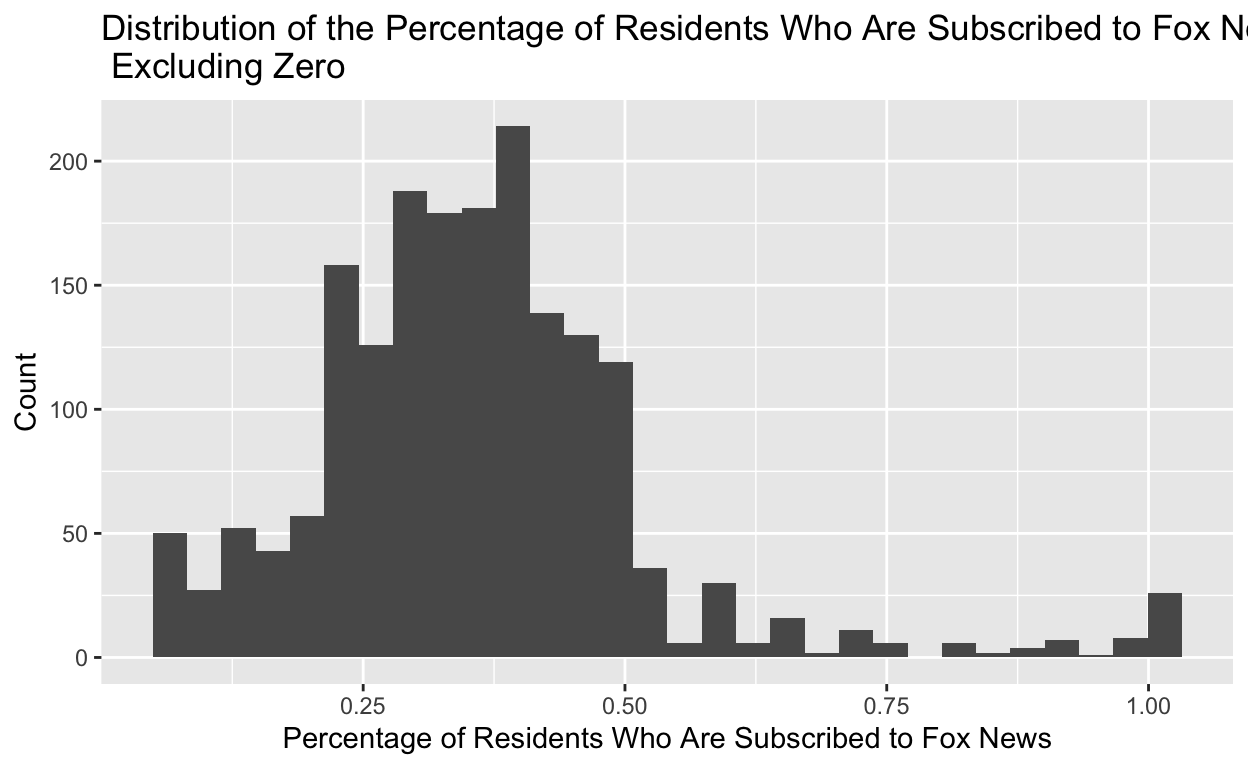
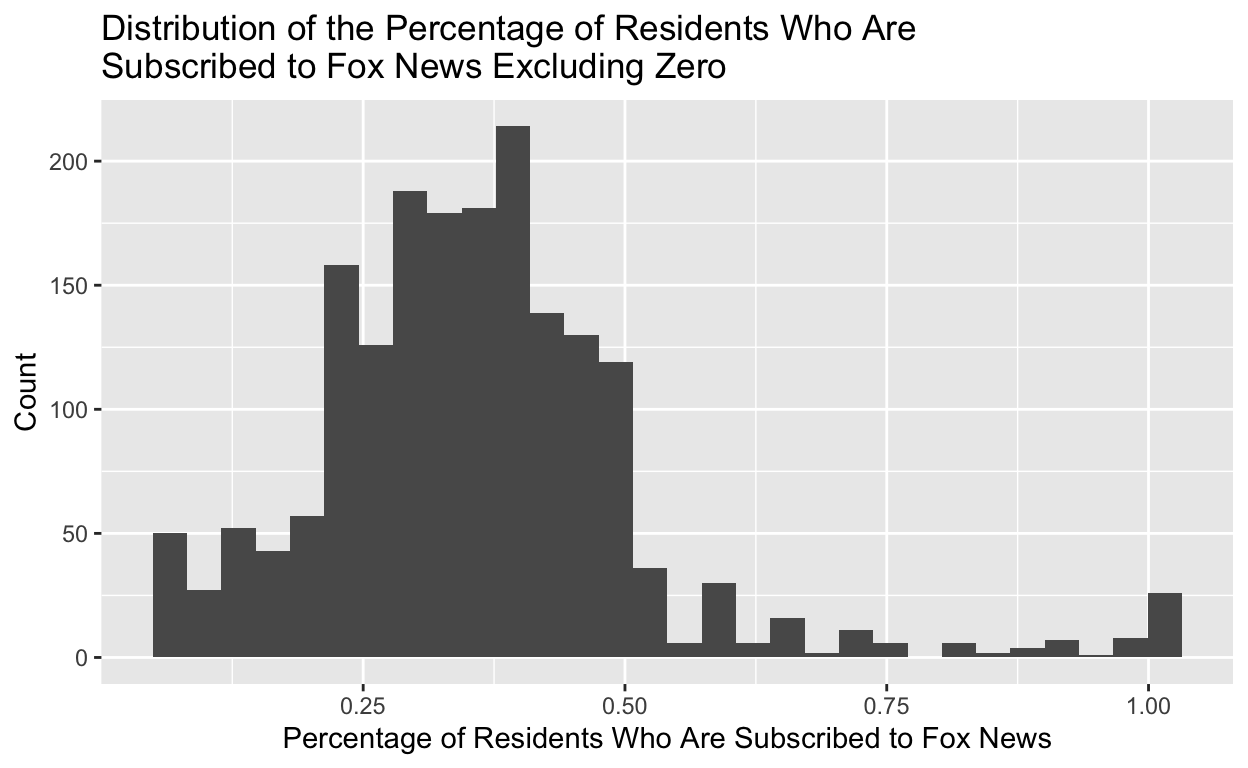
Edited graphs!

Changed region(s): [[0.0625, 0.0625, 0.5938, 0.125], [0.75, 0.0, 1.0, 0.0625]]

diff --git a/index.html b/index.html
@@ -1537,13 +1537,15 @@ code span.wa { color: #5e5e5e; font-style: italic; } /* Warning */
 <p>I also decided to expand the scope of this project further and do a differences-in-differences analysis, comparing the GOP vote share in cities that had access to Fox News and those that did not in the 1996 Presidential election, before Fox News took hold, to the 2000 Presidential election. In order for this analysis to be validated, the parallel trends assumption must hold, meaning that the difference between the ‘treatment’ and ‘control’ group would have been constant over time in the absence of treatment. This is usually done through comparing key variables before and after a policy change, but because we only have access to limited demographic data from 1990 in this data set, this assumption cannot be validated. Regardless, if the Differences-in-Differences estimate proves to be substantial, this would serve as reasonable basis for an indication that my hypothesis is correct and that further investigation is warranted.</p>
 <div class="layout-chunk" data-layout="l-body">
 <div class="sourceCode">
-<pre class="sourceCode r"><code class="sourceCode r"><span><span class='fu'><a href='https://ggplot2.tidyverse.org/reference/ggplot.html'>ggplot</a></span><span class='op'>(</span>data <span class='op'>=</span> <span class='va'>fox_news</span>,</span>
+<pre class="sourceCode r"><code class="sourceCode r"><span><span class='va'>subrf2000_histogram</span> <span class='op'>&lt;-</span> <span class='fu'><a href='https://ggplot2.tidyverse.org/reference/ggplot.html'>ggplot</a></span><span class='op'>(</span>data <span class='op'>=</span> <span class='va'>fox_news</span>,</span>
 <span>       mapping <span class='op'>=</span> <span class='fu'><a href='https://ggplot2.tidyverse.org/reference/aes.html'>aes</a></span><span class='op'>(</span>x <span class='op'>=</span> <span class='va'>subrf2000</span><span class='op'>)</span><span class='op'>)</span> <span class='op'>+</span></span>
 <span>  <span class='fu'><a href='https://ggplot2.tidyverse.org/reference/geom_histogram.html'>geom_histogram</a></span><span class='op'>(</span><span class='op'>)</span> <span class='op'>+</span> <span class='fu'><a href='https://ggplot2.tidyverse.org/reference/labs.html'>labs</a></span><span class='op'>(</span></span>
 <span>    x <span class='op'>=</span> <span class='st'>"Percentage of Residents Who Are Subscribed to Fox News"</span>,</span>
 <span>    y <span class='op'>=</span> <span class='st'>"Count"</span>,</span>
 <span>    title <span class='op'>=</span> <span class='st'>"Distribution of the Percentage of Residents Who Are Subscribed to Fox News"</span></span>
-<span>  <span class='op'>)</span></span></code></pre>
+<span>  <span class='op'>)</span></span>
+<span></span>
+<span><span class='va'>subrf2000_histogram</span></span></code></pre>
 </div>
 <p><img src="index_files/figure-html5/unnamed-chunk-2-1.png" width="624" /></p>
 </div>
@@ -1553,12 +1555,14 @@ code span.wa { color: #5e5e5e; font-style: italic; } /* Warning */
 <pre class="sourceCode r"><code class="sourceCode r"><span><span class='va'>filtered_data</span> <span class='op'>&lt;-</span> <span class='va'>fox_news</span> <span class='op'>|&gt;</span> </span>
 <span>  <span class='fu'><a href='https://dplyr.tidyverse.org/reference/filter.html'>filter</a></span><span class='op'>(</span><span class='va'>subrf2000</span> <span class='op'>!=</span> <span class='fl'>0</span><span class='op'>)</span></span>
 <span></span>
-<span><span class='fu'><a href='https://ggplot2.tidyverse.org/reference/ggplot.html'>ggplot</a></span><span class='op'>(</span><span class='va'>filtered_data</span>, <span class='fu'><a href='https://ggplot2.tidyverse.org/reference/aes.html'>aes</a></span><span class='op'>(</span>x <span class='op'>=</span> <span class='va'>subrf2000</span><span class='op'>)</span><span class='op'>)</span> <span class='op'>+</span></span>
+<span><span class='va'>subrf2000_histogram_filtered</span> <span class='op'>&lt;-</span> <span class='fu'><a href='https://ggplot2.tidyverse.org/reference/ggplot.html'>ggplot</a></span><span class='op'>(</span><span class='va'>filtered_data</span>, <span class='fu'><a href='https://ggplot2.tidyverse.org/reference/aes.html'>aes</a></span><span class='op'>(</span>x <span class='op'>=</span> <span class='va'>subrf2000</span><span class='op'>)</span><span class='op'>)</span> <span class='op'>+</span></span>
 <span>  <span class='fu'><a href='https://ggplot2.tidyverse.org/reference/geom_histogram.html'>geom_histogram</a></span><span class='op'>(</span><span class='op'>)</span> <span class='op'>+</span> <span class='fu'><a href='https://ggplot2.tidyverse.org/reference/labs.html'>labs</a></span><span class='op'>(</span></span>
 <span>    x <span class='op'>=</span> <span class='st'>"Percentage of Residents Who Are Subscribed to Fox News"</span>,</span>
 <span>    y <span class='op'>=</span> <span class='st'>"Count"</span>,</span>
-<span>    title <span class='op'>=</span> <span class='st'>"Distribution of the Percentage of Residents Who Are Subscribed to Fox News\n Excluding Zero"</span></span>
-<span>  <span class='op'>)</span></span></code></pre>
+<span>    title <span class='op'>=</span> <span class='st'>"Distribution of the Percentage of Residents Who Are \nSubscribed to Fox News Excluding Zero"</span></span>
+<span>  <span class='op'>)</span></span>
+<span></span>
+<span><span class='va'>subrf2000_histogram_filtered</span></span></code></pre>
 </div>
 <p><img src="index_files/figure-html5/unnamed-chunk-3-1.png" width="624" /></p>
 </div>
